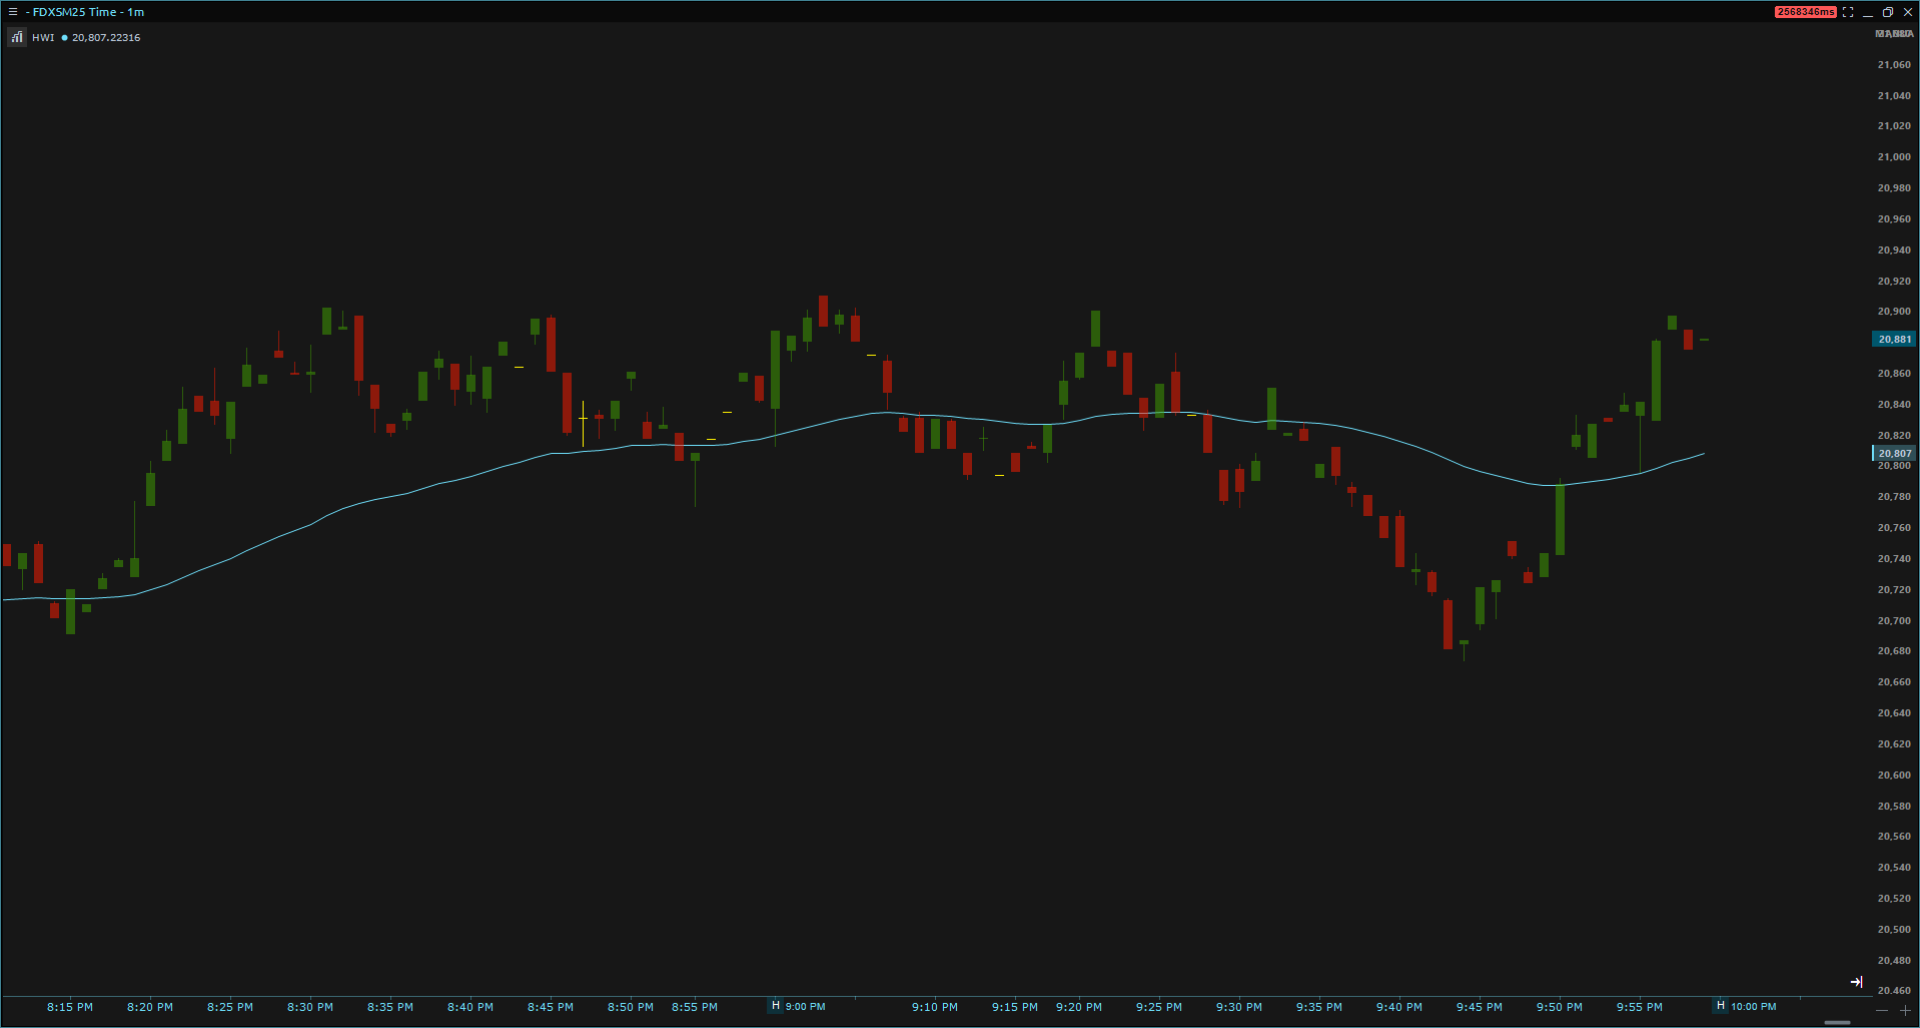
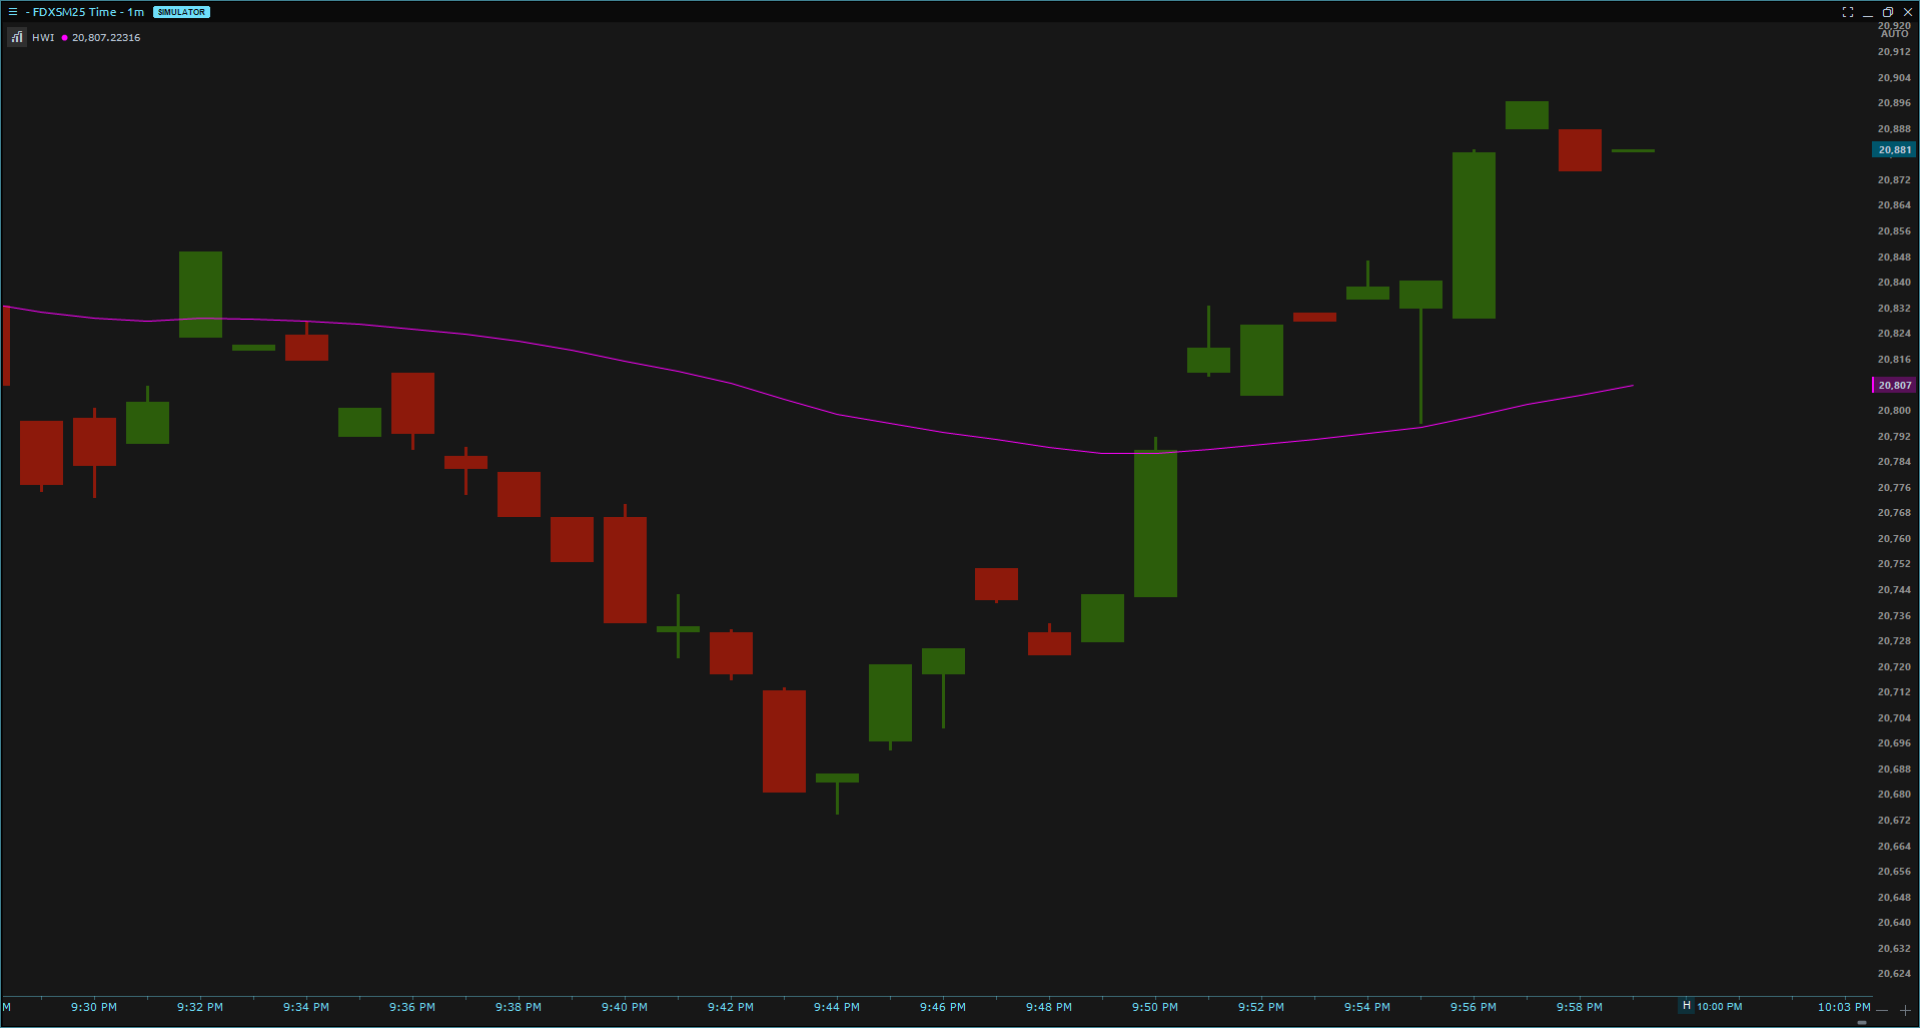
update docs and image

diff --git a/HelloWorldIndicator/HelloWorldIndicator.cs b/HelloWorldIndicator/HelloWorldIndicator.cs
@@ -1,44 +1,49 @@
 using System.Drawing;
 using TradingPlatform.BusinessLayer;
 
+/// Defines a custom indicator by inheriting from Quantower's 
+/// base Indicator class
 namespace HelloWorldIndicator
 {
-    public class HelloWorldIndicator : Indicator
+  // This class extends the base Indicator class
+  public class HelloWorldIndicator : Indicator
+  {
+    // Holds a reference to the built-in EMA indicator
+    private Indicator _ema;
+
+    // Constructor: sets basic metadata and visual configuration
+    public HelloWorldIndicator()
     {
-        private Indicator _ema;
-
-        public HelloWorldIndicator()
-        {
-            Name = "My Indicator";
-            Description = "Hello World Indicator"; 
-            SeparateWindow = true;
-            _ema = null;
-
-            AddLineSeries("EMA5 50", Color.Magenta);
-        }
-
-        public override string ShortName => "HWI";
-
-        protected override void OnInit()
-        {
-            base.OnInit();
-            
-            AddIndicator(_ema = Core.Indicators.BuiltIn.EMA(50, PriceType.Close));
-        }
-
-        protected override void OnUpdate(UpdateArgs args)
-        {
-            base.OnUpdate(args);
-            
-            SetValue(_ema.GetValue());
-        }
-
-        public override void Dispose()
-        {
-            base.Dispose();
-            
-            _ema?.Dispose();
-            _ema = null;
-        }
+      Name = "My Indicator";
+      Description = "Hello World Indicator"; 
+      SeparateWindow = false;
+      _ema = null;
+      AddLineSeries("EMA 50", Color.Magenta);
     }
+
+    // Called once during the initialization of the indicator
+    protected override void OnInit()
+    {
+      base.OnInit();
+      AddIndicator(_ema = Core.Indicators.BuiltIn.EMA(50, PriceType.Close));
+    }
+
+    // Method is called when a price data updates. 
+    protected override void OnUpdate(UpdateArgs args)
+    {
+      base.OnUpdate(args);
+      SetValue(_ema.GetValue());
+    }
+
+    // Called when the indicator is removed / destroyed
+    public override void Dispose()
+    {
+      base.Dispose();
+      _ema?.Dispose();
+      _ema = null;
+    }
+
+    // Short name displayed in the UI
+    public override string ShortName => "HWI";
+  }
 }
